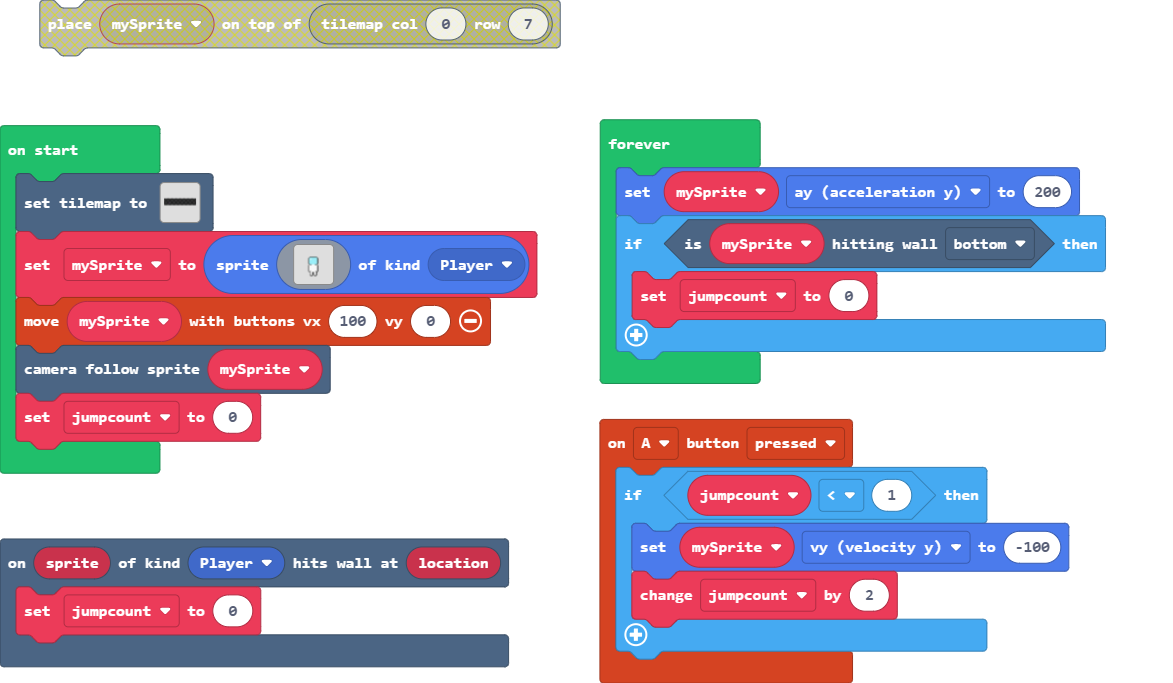
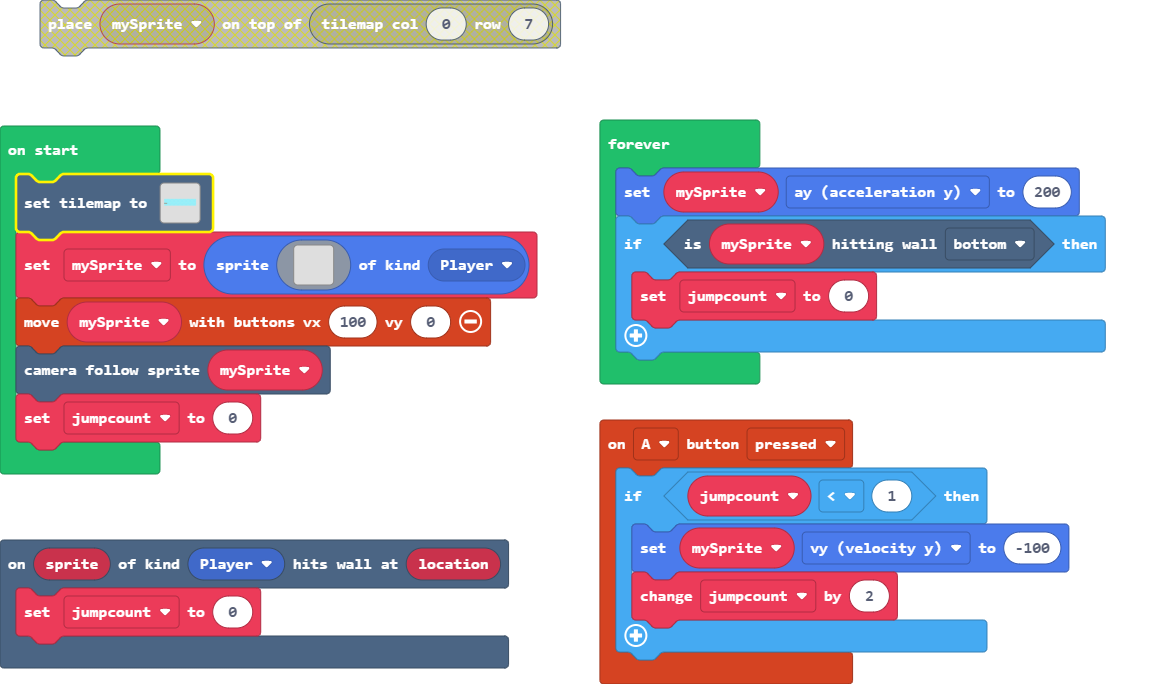
Update main.blocks, main.ts, tilemap.g.jres, tilemap.g.ts

diff --git a/tilemap.g.ts b/tilemap.g.ts
@@ -3,7 +3,13 @@ namespace myTiles {
     //% fixedInstance jres blockIdentity=images._tile
     export const transparency16 = image.ofBuffer(hex``);
     //% fixedInstance jres blockIdentity=images._tile
+    export const tile3 = image.ofBuffer(hex``);
+    //% fixedInstance jres blockIdentity=images._tile
+    export const tile9 = image.ofBuffer(hex``);
+    //% fixedInstance jres blockIdentity=images._tile
     export const tile2 = image.ofBuffer(hex``);
+    //% fixedInstance jres blockIdentity=images._tile
+    export const tile4 = image.ofBuffer(hex``);
     //% fixedInstance jres blockIdentity=images._tile
     export const tile6 = image.ofBuffer(hex``);
     //% fixedInstance jres blockIdentity=images._tile
@@ -11,25 +17,23 @@ namespace myTiles {
     //% fixedInstance jres blockIdentity=images._tile
     export const tile8 = image.ofBuffer(hex``);
     //% fixedInstance jres blockIdentity=images._tile
-    export const tile9 = image.ofBuffer(hex``);
+    export const tile10 = image.ofBuffer(hex``);
     //% fixedInstance jres blockIdentity=images._tile
-    export const tile1 = image.ofBuffer(hex``);
-    //% fixedInstance jres blockIdentity=images._tile
-    export const tile3 = image.ofBuffer(hex``);
+    export const tile11 = image.ofBuffer(hex``);
 
     helpers._registerFactory("tilemap", function(name: string) {
         switch(helpers.stringTrim(name)) {
             case "level1":
-            case "level1":return tiles.createTilemap(hex`280008000404040401040404040404040401010404040404040404040404040101010404040401040401040404020403030404030303010101010101010104010101010202030303040301010404030301030404040401030401040403030404040404040402020404030301010104040404010101010304040304040304040304040301040304010104030403030404040303010404040303040402020403040404040203040403040204040404030103040403010301010103040101010103040101040201010301040404040401010101050303040401040101010302010101010202040404040404040401010204040403040403020204030301010203040403030203020202040404040303010104040404040404040303040404040304040202040304010104040401030404040303030304040404040303040404030403040404`, img`
+            case "level1":return tiles.createTilemap(hex`280008000101010101010101010101010101010101010101010101010101010101010101010101010101010101010101010101010101010101010101010101010101010101010101010101010101010101010101010101010101010101010101010101010101010101010101010101010101010101010101010101010101010101010101010101010101010101010101010101010101010101010101010101010101010101010101010101010101010101010101010101010101010101010101010101010101010101010101030703050101010101010101010101010101010101010101010101010101010101010101010101010101010101010101010101010101010101010101010101010101010101010101010101010101010101010101010101010101010101010101010101010101010101010101010101010101010101010101`, img`
 ........................................
 ........................................
 ........................................
 ........................................
 ........................................
-......2.................................
 ........................................
-2222222222222222222222222222222222222222
-`, [myTiles.transparency16,myTiles.tile6,myTiles.tile7,myTiles.tile8,myTiles.tile9,myTiles.tile1], TileScale.Sixteen);
+........................................
+........................................
+`, [myTiles.transparency16,myTiles.tile4,myTiles.tile2,myTiles.tile6,myTiles.tile7,myTiles.tile8,myTiles.tile9,myTiles.tile10,myTiles.tile11], TileScale.Sixteen);
         }
         return null;
     })
@@ -37,20 +41,24 @@ namespace myTiles {
     helpers._registerFactory("tile", function(name: string) {
         switch(helpers.stringTrim(name)) {
             case "transparency16":return transparency16;
+            case "myTile1":
+            case "tile3":return tile3;
+            case "myTile7":
+            case "tile9":return tile9;
             case "myTile0":
             case "tile2":return tile2;
+            case "myTile2":
+            case "tile4":return tile4;
             case "myTile4":
             case "tile6":return tile6;
             case "myTile5":
             case "tile7":return tile7;
             case "myTile6":
             case "tile8":return tile8;
-            case "myTile7":
-            case "tile9":return tile9;
-            case "myTile":
-            case "tile1":return tile1;
-            case "myTile1":
-            case "tile3":return tile3;
+            case "myTile8":
+            case "tile10":return tile10;
+            case "myTile9":
+            case "tile11":return tile11;
         }
         return null;
     })

diff --git a/main.ts b/main.ts
@@ -11,56 +11,22 @@ let jumpcount = 0
 let mySprite: Sprite = null
 tiles.setTilemap(tilemap`level1`)
 mySprite = sprites.create(img`
-    ..................................................
-    ..................................................
-    ..................................................
-    ..................................................
-    ..................................................
-    ..................................................
-    ..................................................
-    ..................................................
-    ..................................................
-    ..................................................
-    ..................................................
-    ..................................................
-    ..................................................
-    ...................fffffffffff....................
-    ..................f99999999999f...................
-    .................f9999999999999f..................
-    .................f9911999999999f..................
-    .................f9919999999999f..................
-    .................f9999999999999f..................
-    .................f9999999999999f..................
-    .................f9999999999999f..................
-    .................f9999999999999f..................
-    .................f9999999999999f..................
-    .................f9999999999999f..................
-    ..................f99999999999f...................
-    ...................fff11111fff....................
-    .................f1111111111111f..................
-    .................f1111111111111f..................
-    .................f1111111111111f..................
-    .................f1111111111111f..................
-    .................f1111111111111f..................
-    .................f1111111111111f..................
-    .................f1111111111111f..................
-    .................f1111111111111f..................
-    .................f1111111111111f..................
-    .................f11f1111111f11f..................
-    ..................ff111111111ff...................
-    ...................f111fff111f....................
-    ...................f111f.f111f....................
-    ...................f111f.f111f....................
-    ...................f111f.f111f....................
-    ...................f111f.f111f....................
-    ....................fff...fff.....................
-    ..................................................
-    ..................................................
-    ..................................................
-    ..................................................
-    ..................................................
-    ..................................................
-    ..................................................
+    . . . . . . . . . . . . . . . . 
+    . . . . . . . . . . . . . . . . 
+    . . . . . . . . . . . . . . . . 
+    . . . . . . . . . . . . . . . . 
+    . . . . . . . . . . . . . . . . 
+    . . . . . . . . . . . . . . . . 
+    . . . . . . . . . . . . . . . . 
+    . . . . . . . . . . . . . . . . 
+    . . . . . . . . . . . . . . . . 
+    . . . . . . . . . . . . . . . . 
+    . . . . . . . . . . . . . . . . 
+    . . . . . . . . . . . . . . . . 
+    . . . . . . . . . . . . . . . . 
+    . . . . . . . . . . . . . . . . 
+    . . . . . . . . . . . . . . . . 
+    . . . . . . . . . . . . . . . . 
     `, SpriteKind.Player)
 controller.moveSprite(mySprite, 100, 0)
 scene.cameraFollowSprite(mySprite)
